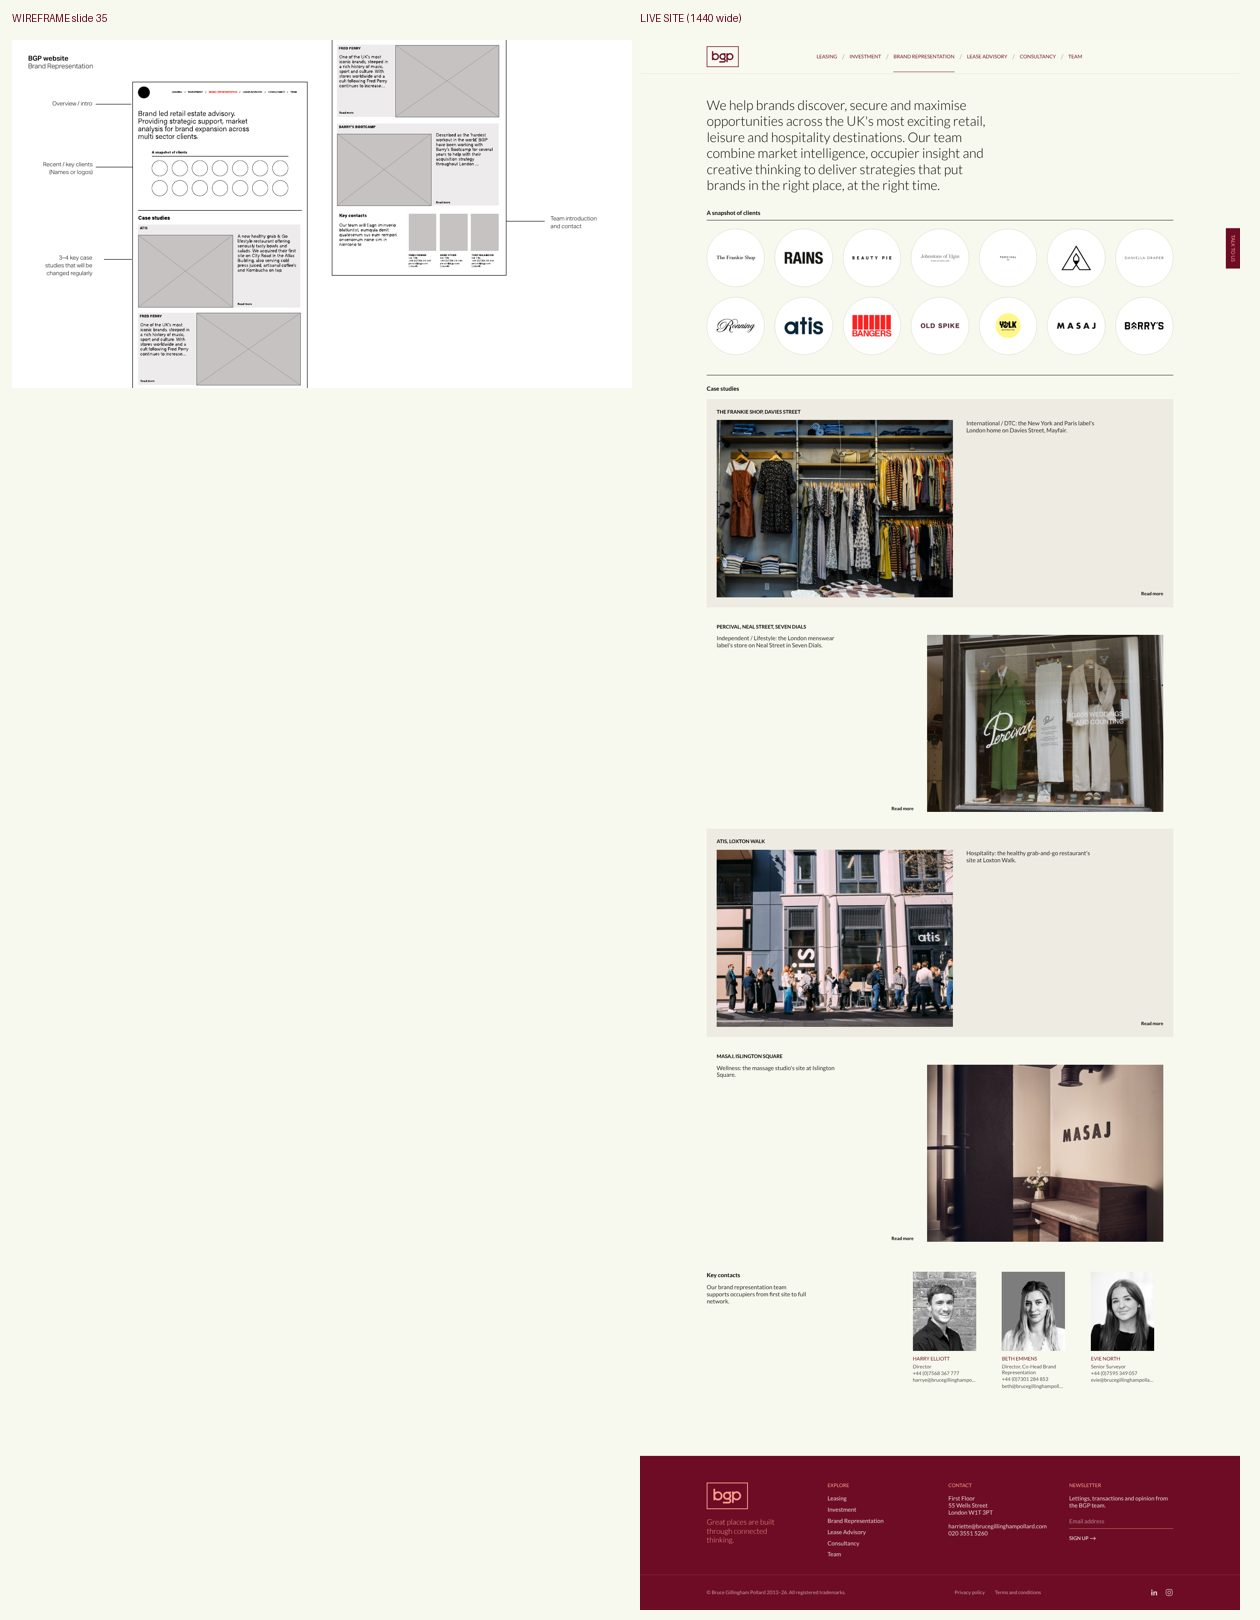
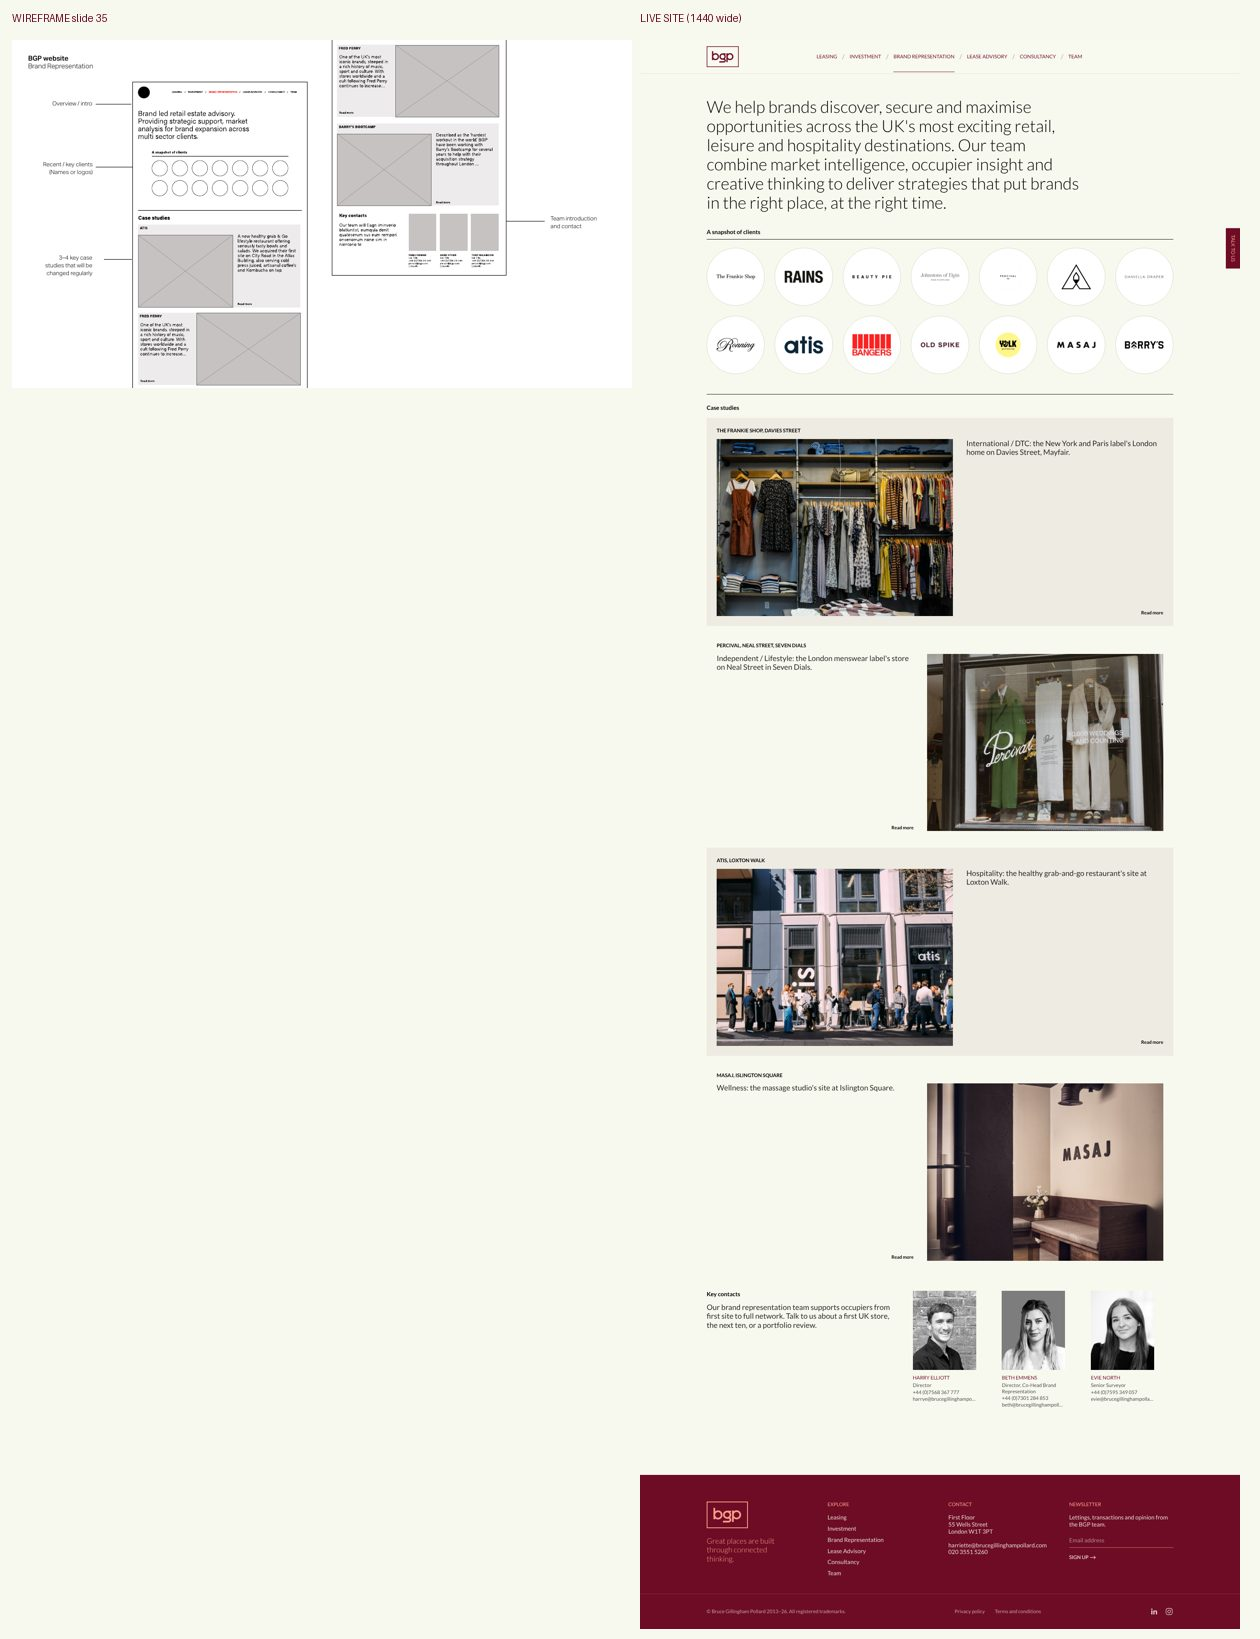
Brand Rep case studies show the full paragraph like slide 35
Claude-Session: https://claude.ai/code/session_01VWYEsv9bQyCv1sfuch6PLS

diff --git a/marketing/src/pages/BrandRepresentation.tsx b/marketing/src/pages/BrandRepresentation.tsx
@@ -53,7 +53,10 @@ export default function BrandRepresentation() {
                   <Placeholder className="aspect-[4/3] w-full" src={cs.image} alt={cs.title} label="Photo to follow" />
                 </div>
                 <div className="[direction:ltr] flex flex-col">
-                  <p className={`text-base md:text-lg leading-snug text-bgp-ink/85 ${cs.draft ? "italic" : ""}`}>{cs.blurb}</p>
+                  {/* Slide 35 gives each case study a full paragraph, so the blurb and body run together. */}
+                  <div className={`space-y-3 text-base md:text-lg leading-snug text-bgp-ink/85 ${cs.draft ? "italic" : ""}`}>
+                    {[cs.blurb, ...(cs.body || [])].map((para, k) => <p key={k}>{para}</p>)}
+                  </div>
                   <p className="mt-auto pt-6 text-[11px] font-bold text-bgp-ink self-end">Read more</p>
                 </div>
               </div>

diff --git a/docs/website-go-live-list.md b/docs/website-go-live-list.md
@@ -57,6 +57,17 @@ asks for the list; add to it when he says "put it on the list".
 
 ## Done (keep for the record)
 
+- Every empty slot on the site now shows something the team can judge
+  (Woody, 2026-10-16): a stock photo tagged "Stock image, to be replaced"
+  where a picture is missing, and draft copy in italics where words are
+  missing or unconfirmed (client quotes on Consultancy, Investment and the
+  investment case studies; the three Lease Advisory summaries; the St
+  Christopher's Place, South Molton Triangle and Canary Wharf leasing
+  copy; a draft case study each for The City and High Streets). Replace
+  the words and the italics go. Brand Representation rebuilt to slide 35
+  exactly, with the site boxed at 1440px so it stops stretching on wide
+  screens. Sheets in `docs/wireframe-review/`.
+
 - Website layouts rebuilt to the December 2025 wireframes after Woody's
   side-by-side review (2026-10-16): statement over the hero, left-aligned
   headings over rules, grey bands for key contacts and case studies, stats
